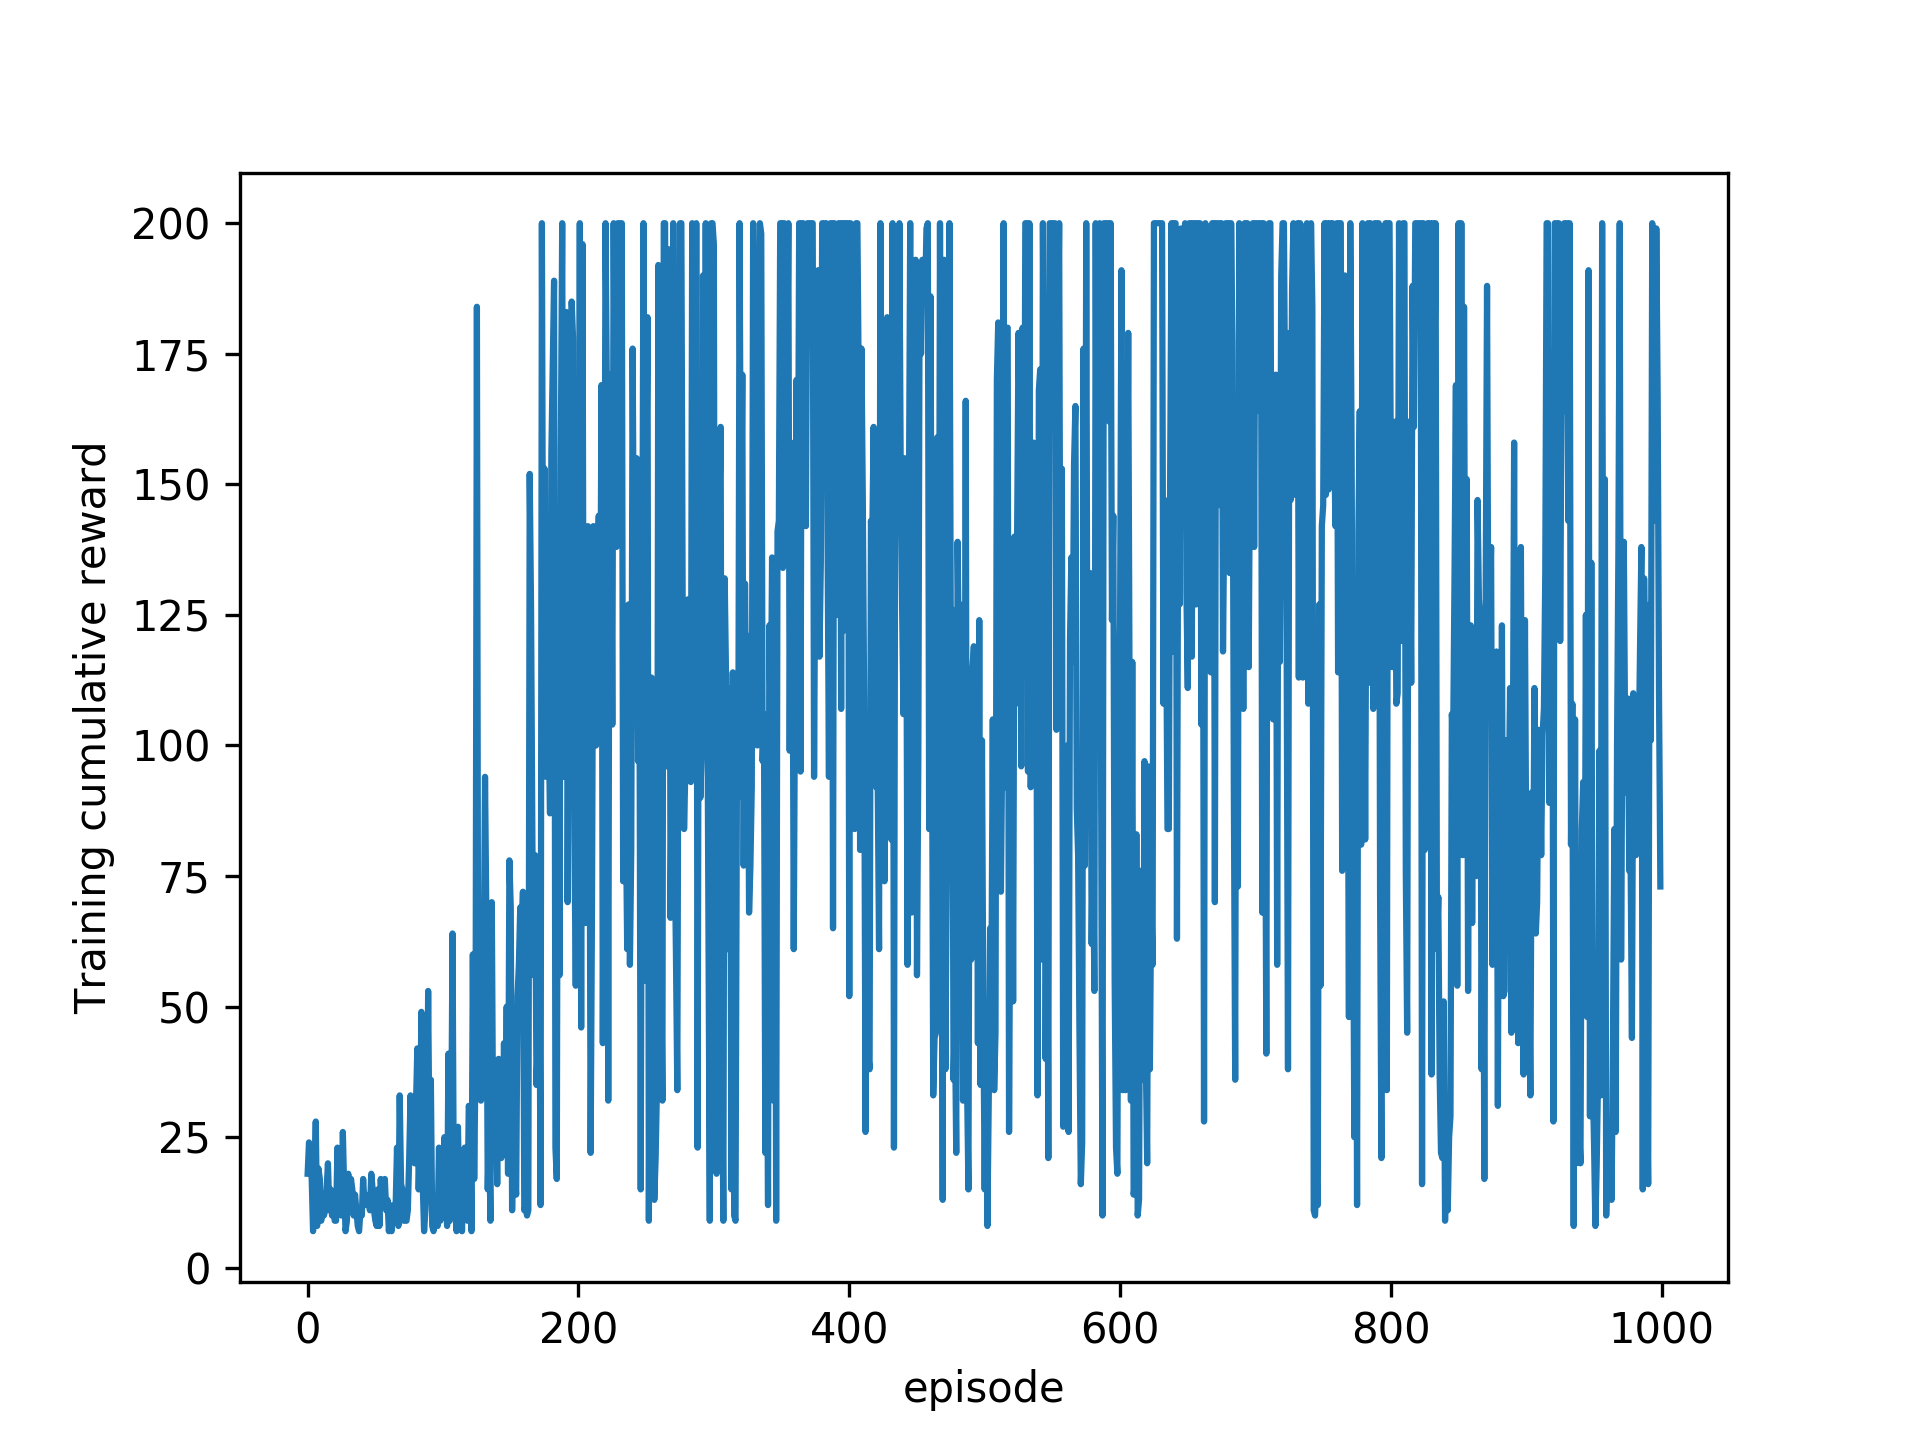
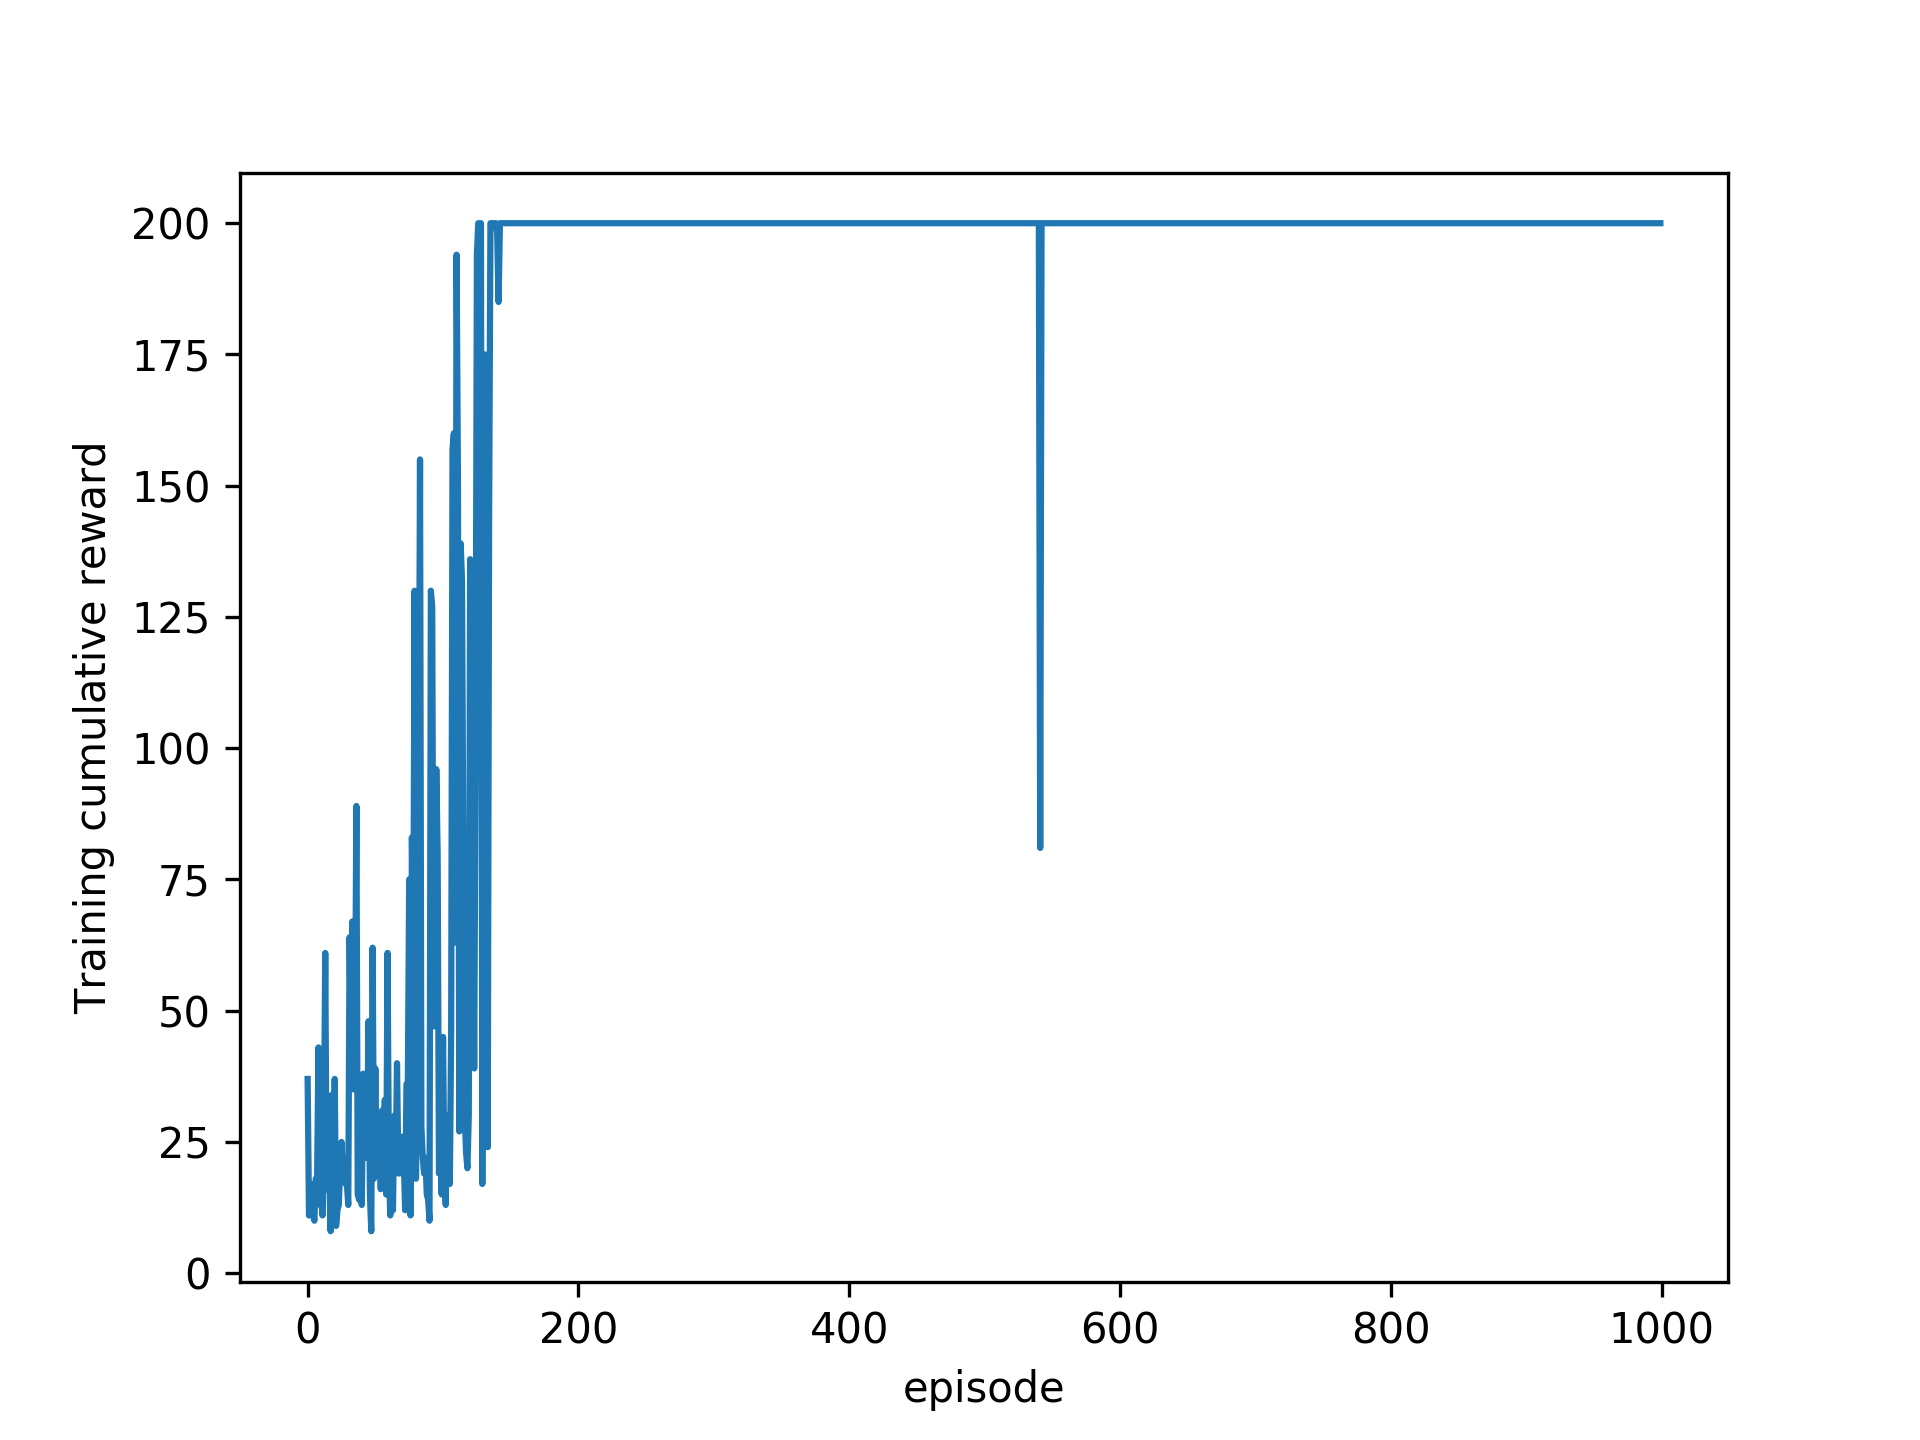
change tau to 0.01 , change upper and lower bounds to +-15

diff --git a/q_learning_cartpole.py b/q_learning_cartpole.py
@@ -39,15 +39,15 @@ buckets = (1, 1, 6, 12)     # define the number of buckets for each state value 
 # note: setting the bucket to 1 for the first 2 numbers is equivalent to ignoring these parameters
 upper_bounds = [
         env.observation_space.high[0], 
-        0.5, 
+        15, 
         env.observation_space.high[2], 
-        math.radians(50)
+        15
         ]
 lower_bounds = [
         env.observation_space.low[0], 
-        -0.5, 
+        -15, 
         env.observation_space.low[2], 
-        -math.radians(50)]
+        -15]
 
 
 # HYPERPARAMETERS

diff --git a/cartpole_gym/envs/cartpole.py b/cartpole_gym/envs/cartpole.py
@@ -55,8 +55,8 @@ class CartPoleEnv(gym.Env):
         self.total_mass = (self.masspole + self.masscart)
         self.length = 0.152 # actually half the pole's length
         self.polemass_length = (self.masspole * self.length)
-        self.force_mag = -20.0
-        self.tau = 0.02  # seconds between state updates
+        self.force_mag = -50.0
+        self.tau = 0.01  # seconds between state updates
         self.kinematics_integrator = 'euler'
 
         # Angle at which to fail the episode

diff --git a/cartpole_gym/__init__.py b/cartpole_gym/__init__.py
@@ -3,8 +3,8 @@ from gym.envs.registration import register
 register(
     id='CartPoleEnv11-v0',
     entry_point='cartpole_gym.envs:CartPoleEnv',
-    max_episode_steps=2000,
-    reward_threshold=195.0,
+    #max_episode_steps=2000,
+    #reward_threshold=300.0,
 )
 
 
